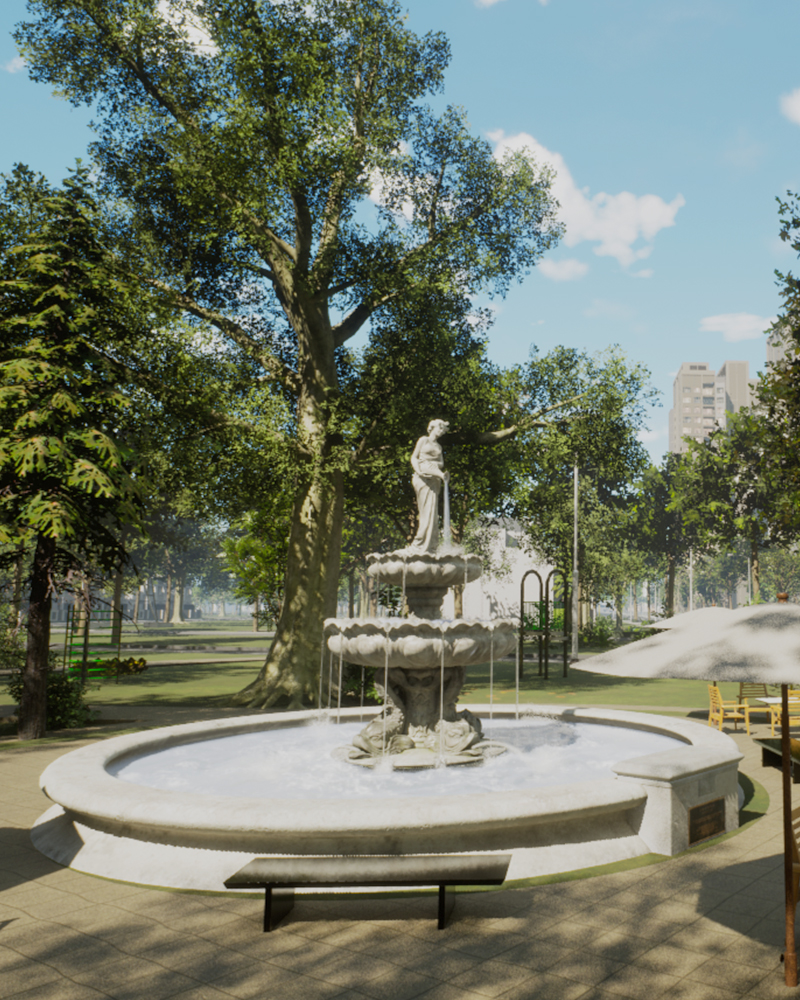
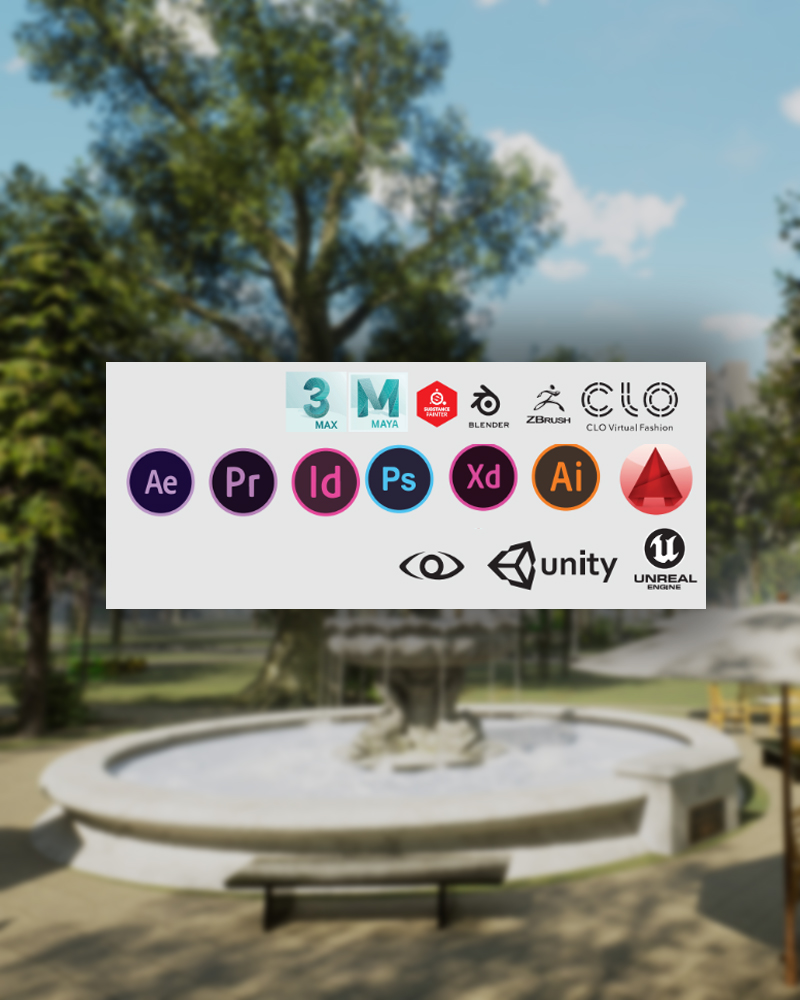
Done

diff --git a/index.html b/index.html
@@ -47,7 +47,7 @@
                         <li><a href="#section-services"><span>02</span>Services</a></li>
                         <li><a href="#section-experiences"><span>03</span>Experiences</a></li>
                         <li><a href="#section-portfolio"><span>05</span>Portfolio</a></li>
-                        <li><a href="#section-blog"><span>06</span>Blog</a></li>
+                        <li><a href="#section-blog"><span>06</span>SoftWare</a></li>
                         <li><a href="#section-contact"><span>07</span>Contact</a></li>
                     </ul>
                 </nav>
@@ -171,6 +171,11 @@
                             <div class="clearfix"></div>
                         </div>
                     </div>
+                    <a href="#section-experiences" class="scroll-to">
+                        <span class="arrow bounce">
+							<i class="arrow_down"></i>
+                        </span>
+                    </a>
                 </section>
                 <!-- section close -->
 
@@ -188,7 +193,7 @@
                             <div class="col-md-6">
                                 <div class="content-wrap">
                                     <p class="lead">
-                                        I am a website designer from London, with a strong focus in UI/UX design. I love to get new experiences and always learn from my surroundings. I've done more than 285 projects. I looking forward to any opportunities and challenges.
+                                        I am a 3D Artist from Ho Chi Minh, with a strong focus in Game Engine design. I love to get new experiences and always learn from my surroundings. I've done more than 10 projects. I looking forward to any opportunities and challenges.
                                     </p>
 
                                     <div class="spacer30"></div>
@@ -207,19 +212,40 @@
 
                                             <div class="tab_single_content">
                                                 <div class="exp-box">
-                                                    <h5>2014 - now</h5>
-                                                    <h4>Product Designer Freelancer</h4>
-                                                    <p>Sed ut perspiciatis unde omnis iste natus error sit voluptatem accusantium doloremque laudantium, totam rem aperiam, eaque ipsa quae ab illo inventore veritatis et quasi architecto beatae.</p>
+                                                    <h5>2018</h5>
+                                                    <h4>Designer Freelancer</h4>
+                                                    <p>Design 2D about banner , web, poster, logo ....</p>
                                                 </div>
                                                 <div class="exp-box">
-                                                    <h5>2010 - 2014</h5>
-                                                    <h4>Product Designer at Apple</h4>
-                                                    <p>Sed ut perspiciatis unde omnis iste natus error sit voluptatem accusantium doloremque laudantium, totam rem aperiam, eaque ipsa quae ab illo inventore veritatis et quasi architecto.</p>
+                                                    <h5>January to March 2018</h5>
+                                                    <h4>3D Artist :Trainee at Glass Egg</h4>
+                                                    <p>- Modeling environment asset
+                                                        <br>- Texture with Subtance painter
+                                                        <br>- Concept and create subtance material design</p>
                                                 </div>
                                                 <div class="exp-box">
-                                                    <h5>2006 - 2010</h5>
-                                                    <h4>Product Designer at Samsung</h4>
-                                                    <p>Sed ut perspiciatis unde omnis iste natus error sit voluptatem accusantium doloremque laudantium, totam rem aperiam, eaque ipsa quae ab illo inventore veritatis et quasi architecto.</p>
+                                                    <h5>Apr-2018 to June-2022</h5>
+                                                    <h4>3D Artist : Working at Rolling Ant (NAMI TRADING JSC)</h4>
+                                                    <p>- Modeling (Lod ,lowpoly) ,shader , retopology game
+                                                        <br>- Working layout and create scene Enviroment for VR
+                                                        project in Unity, Cryengine, Unreal
+                                                        <br>- Manage information from client ,design follow client’s
+                                                        <br>- Deliver task to teammates and create 3d library to
+                                                        project
+                                                        <br>- Set up project and optimization to build the app for
+                                                        final product</p>
+                                                </div>
+                                                <div class="exp-box">
+                                                    <h5>June-2022 - Present </h5>
+                                                    <h4>3D Artist/ Game Engine</h4>
+                                                    <p>- Modeling (Lod ,lowpoly) ,shader , retopology game
+                                                        <br>- Working layout and create scene Enviroment for 
+                                                        project in Unity, Cryengine, Unreal
+                                                        <br>- Manage information from client ,design follow client’s
+                                                        <br>- Deliver task to teammates and create 3d library to
+                                                        project
+                                                        <br>- Set up project and optimization to build the app for
+                                                        final product</p>
                                                 </div>
                                             </div>
 
@@ -252,10 +278,16 @@
                             <div class="clearfix"></div>
                         </div>
                     </div>
+                    <a href="#section-portfolio" class="scroll-to">
+                        <span class="arrow bounce">
+							<i class="arrow_down"></i>
+                        </span>
+                    </a>
                 </section>
                 <!-- section close -->
 
                 <!-- section begin -->
+                
                 <section id="section-portfolio" aria-label="section-portfolio" class="fluid overwidth">
                     <div class="container-fluid">
                         <div id="album-carousel-2" class="owl-carousel owl-theme">
@@ -333,7 +365,9 @@
 					
 					<div class="pf-nav left"><i class="arrow_left"></i></div>
 					<div class="pf-nav right"><i class="arrow_right"></i></div>
+                    
                 </section>
+                
                 <!-- section close -->
 
                 <!-- section begin -->
@@ -353,11 +387,11 @@
                                     <div class="bloglist s1 item">
                                         <div class="post-content">
                                             <div class="date-box">
-                                                <div class="d">28</div>
-                                                <div class="m">MAR</div>
+                                                <div class="d">01</div>
+                                                <div class="m">Engine</div>
                                             </div>
                                             <div class="post-text">
-                                                <h3><a href="blog-single.html">The Best Website Design of 2020</a></h3>
+                                                <h3><a href="#">The Best Website Design of 2020</a></h3>
                                                 <p>Nemo enim ipsam voluptatem quia voluptas sit aspernatur aut odit aut fugit, sed quia consequuntur magni dolores eos qui ratione voluptatem sequi nesciunt.</p>
                                             </div>
                                         </div>
@@ -366,11 +400,11 @@
                                     <div class="bloglist s1 item">
                                         <div class="post-content">
                                             <div class="date-box">
-                                                <div class="d">26</div>
-                                                <div class="m">MAR</div>
+                                                <div class="d">02</div>
+                                                <div class="m">Design</div>
                                             </div>
                                             <div class="post-text">
-                                                <h3><a href="blog-single.html">Make Better User Interface</a></h3>
+                                                <h3><a href="#">>Make Better User Interface</a></h3>
                                                 <p>Nemo enim ipsam voluptatem quia voluptas sit aspernatur aut odit aut fugit, sed quia consequuntur magni dolores eos qui ratione voluptatem sequi nesciunt.</p>
                                             </div>
                                         </div>
@@ -379,11 +413,11 @@
                                     <div class="bloglist s1 item">
                                         <div class="post-content">
                                             <div class="date-box">
-                                                <div class="d">24</div>
-                                                <div class="m">MAR</div>
+                                                <div class="d">03</div>
+                                                <div class="m">Modeling</div>
                                             </div>
                                             <div class="post-text">
-                                                <h3><a href="blog-single.html">The Importance Of Web Design</a></h3>
+                                                <h3><a href="#">The Importance Of Web Design</a></h3>
                                                 <p>Nemo enim ipsam voluptatem quia voluptas sit aspernatur aut odit aut fugit, sed quia consequuntur magni dolores eos qui ratione voluptatem sequi nesciunt.</p>
                                             </div>
                                         </div>
@@ -392,11 +426,11 @@
                                     <div class="bloglist s1 item">
                                         <div class="post-content">
                                             <div class="date-box">
-                                                <div class="d">22</div>
-                                                <div class="m">MAR</div>
+                                                <div class="d">04</div>
+                                                <div class="m">Shader</div>
                                             </div>
                                             <div class="post-text">
-                                                <h3><a href="blog-single.html">10 Web Design Tips From Experts</a></h3>
+                                                <h3><a href="#">10 Web Design Tips From Experts</a></h3>
                                                 <p>Nemo enim ipsam voluptatem quia voluptas sit aspernatur aut odit aut fugit, sed quia consequuntur magni dolores eos qui ratione voluptatem sequi nesciunt.</p>
                                             </div>
                                         </div>
@@ -405,11 +439,11 @@
                                     <div class="bloglist s1 item">
                                         <div class="post-content">
                                             <div class="date-box">
-                                                <div class="d">18</div>
-                                                <div class="m">MAR</div>
+                                                <div class="d">05</div>
+                                                <div class="m">SoftWare</div>
                                             </div>
                                             <div class="post-text">
-                                                <h3><a href="blog-single.html">Make Responsive Website Layouts</a></h3>
+                                                <h3><a href="#">Make Responsive Website Layouts</a></h3>
                                                 <p>Nemo enim ipsam voluptatem quia voluptas sit aspernatur aut odit aut fugit, sed quia consequuntur magni dolores eos qui ratione voluptatem sequi nesciunt.</p>
                                             </div>
                                         </div>
@@ -420,6 +454,11 @@
 
                             <div class="clearfix"></div>
                         </div>
+                        <a href="#section-contact" class="scroll-to">
+                            <span class="arrow bounce">
+                                <i class="arrow_down"></i>
+                            </span>
+                        </a>
                     </div>
                 </section>
                 <!-- section close -->
@@ -442,27 +481,28 @@
                                         <ul class="data">
                                             <li>
                                                 <div>E-mail</div>
-                                                <div>contact@jonnasatria.com</div>
+                                                <div>phankimtt@gmail.com</div>
                                             </li>
                                             <li>
                                                 <div>Phone</div>
-                                                <div>(208) 333 9296</div>
+                                                <div>(84) 332 983514</div>
                                             </li>
                                             <li>
                                                 <div>Website</div>
-                                                <div>www.mywebsite.com</div>
+                                                <div>https://bencgn.github.io/bencgn/</div>
                                             </li>
                                             <li>
                                                 <div>Address</div>
-                                                <div>Collins Street West, London, UK</div>
+                                                <div>District 1 , Ho Chi Minh City</div>
                                             </li>
                                         </ul>
                                     </div>
 
                                     <div class="spacer60"></div>
 
-                                    <h3>Send message</h3>
+                                    <h3>Send message (Not Acitive)</h3>
                                     <div class="spacer20"></div>
+                                   
                                     <form name="contactForm" id='contact_form' class="form-transparent" method="post" action='email.php'>
 
                                         <div class="field-set">
@@ -499,6 +539,11 @@
                             <div class="clearfix"></div>
                         </div>
                     </div>
+                    <a href="#section-home" class="scroll-to">
+                        <span class="arrow bounce">
+                            <i class="arrow_up"></i>
+                        </span>
+                    </a>
                 </section>
                 <!-- section close -->
 

diff --git a/blog-single.html b/blog-single.html
@@ -3,7 +3,7 @@
 
 <head>
     <meta charset="utf-8">
-    <title>Jonna - Personal Website Template</title>
+    <title>BEN CGN -Blog</title>
     <meta name="viewport" content="width=device-width, initial-scale=1.0">
     <meta name="description" content="">
     <meta name="author" content="">
@@ -39,7 +39,7 @@
             <div id="top-bar" class="transparent dark">
 
                 <div id="logo">
-                    Jonna Satria
+                    BEN CGN
                 </div>
 
                 <nav>

diff --git a/index-big-title.html b/index-big-title.html
@@ -3,7 +3,7 @@
 
 <head>
     <meta charset="utf-8">
-    <title>Jonna - Personal Website Template</title>
+    <title>BEN CGN</title>
     <meta name="viewport" content="width=device-width, initial-scale=1.0">
     <meta name="description" content="">
     <meta name="author" content="">
@@ -39,7 +39,7 @@
             <div id="top-bar" class="transparent dark">
 
                 <div id="logo">
-                    Jonna Satria
+                    BEN CGN
                 </div>
 
                 <nav>

diff --git a/index-particle.html b/index-particle.html
@@ -3,7 +3,7 @@
 
 <head>
     <meta charset="utf-8">
-    <title>Jonna - Personal Website Template</title>
+    <title>BEN CGN</title>
     <meta name="viewport" content="width=device-width, initial-scale=1.0">
     <meta name="description" content="">
     <meta name="author" content="">
@@ -39,7 +39,7 @@
             <div id="top-bar" class="transparent dark">
 
                 <div id="logo">
-                    Jonna Satria
+                    BEN CGN
                 </div>
 
                 <nav>

diff --git a/portfolio-single-1.html b/portfolio-single-1.html
@@ -3,7 +3,7 @@
 
 <head>
     <meta charset="utf-8">
-    <title>Jonna - Personal Website Template</title>
+    <title>BEN CGN</title>
     <meta name="viewport" content="width=device-width, initial-scale=1.0">
     <meta name="description" content="">
     <meta name="author" content="">
@@ -39,7 +39,7 @@
             <div id="top-bar" class="transparent dark">
 
                 <div id="logo">
-                    Jonna Satria
+                    BEN CGN
                 </div>
 
                 <nav>

diff --git a/portfolio-single-2.html b/portfolio-single-2.html
@@ -3,7 +3,7 @@
 
 <head>
     <meta charset="utf-8">
-    <title>Jonna - Personal Website Template</title>
+    <title>BEN CGN</title>
     <meta name="viewport" content="width=device-width, initial-scale=1.0">
     <meta name="description" content="">
     <meta name="author" content="">
@@ -39,7 +39,7 @@
             <div id="top-bar" class="transparent dark">
 
                 <div id="logo">
-                    Jonna Satria
+                    BEN CGN
                 </div>
 
                 <nav>

diff --git a/portfolio-single-3.html b/portfolio-single-3.html
@@ -3,7 +3,7 @@
 
 <head>
     <meta charset="utf-8">
-    <title>Jonna - Personal Website Template</title>
+    <title>BEN CGN</title>
     <meta name="viewport" content="width=device-width, initial-scale=1.0">
     <meta name="description" content="">
     <meta name="author" content="">
@@ -39,7 +39,7 @@
             <div id="top-bar" class="transparent dark">
 
                 <div id="logo">
-                    Jonna Satria
+                    BEN CGN
                 </div>
 
                 <nav>

diff --git a/portfolio-single-4.html b/portfolio-single-4.html
@@ -3,7 +3,7 @@
 
 <head>
     <meta charset="utf-8">
-    <title>Jonna - Personal Website Template</title>
+    <title>BEN CGN</title>
     <meta name="viewport" content="width=device-width, initial-scale=1.0">
     <meta name="description" content="">
     <meta name="author" content="">
@@ -39,7 +39,7 @@
             <div id="top-bar" class="transparent dark">
 
                 <div id="logo">
-                    Jonna Satria
+                    BEN CGN
                 </div>
 
                 <nav>

diff --git a/portfolio-single-5.html b/portfolio-single-5.html
@@ -3,7 +3,7 @@
 
 <head>
     <meta charset="utf-8">
-    <title>Jonna - Personal Website Template</title>
+    <title>BEN CGN</title>
     <meta name="viewport" content="width=device-width, initial-scale=1.0">
     <meta name="description" content="">
     <meta name="author" content="">
@@ -39,7 +39,7 @@
             <div id="top-bar" class="transparent dark">
 
                 <div id="logo">
-                    Jonna Satria
+                    BEN CGN
                 </div>
 
                 <nav>

diff --git a/email.php b/email.php
@@ -1,6 +1,6 @@
 <?php
 $subject = 'You Got Message'; // Subject of your email
-$to = 'info@designesia.com';  //Recipient's E-mail
+$to = 'phankimtt@gmail.com';  //Recipient's E-mail
 $emailTo = $_REQUEST['email'];
 
 $name = $_REQUEST['name'];
